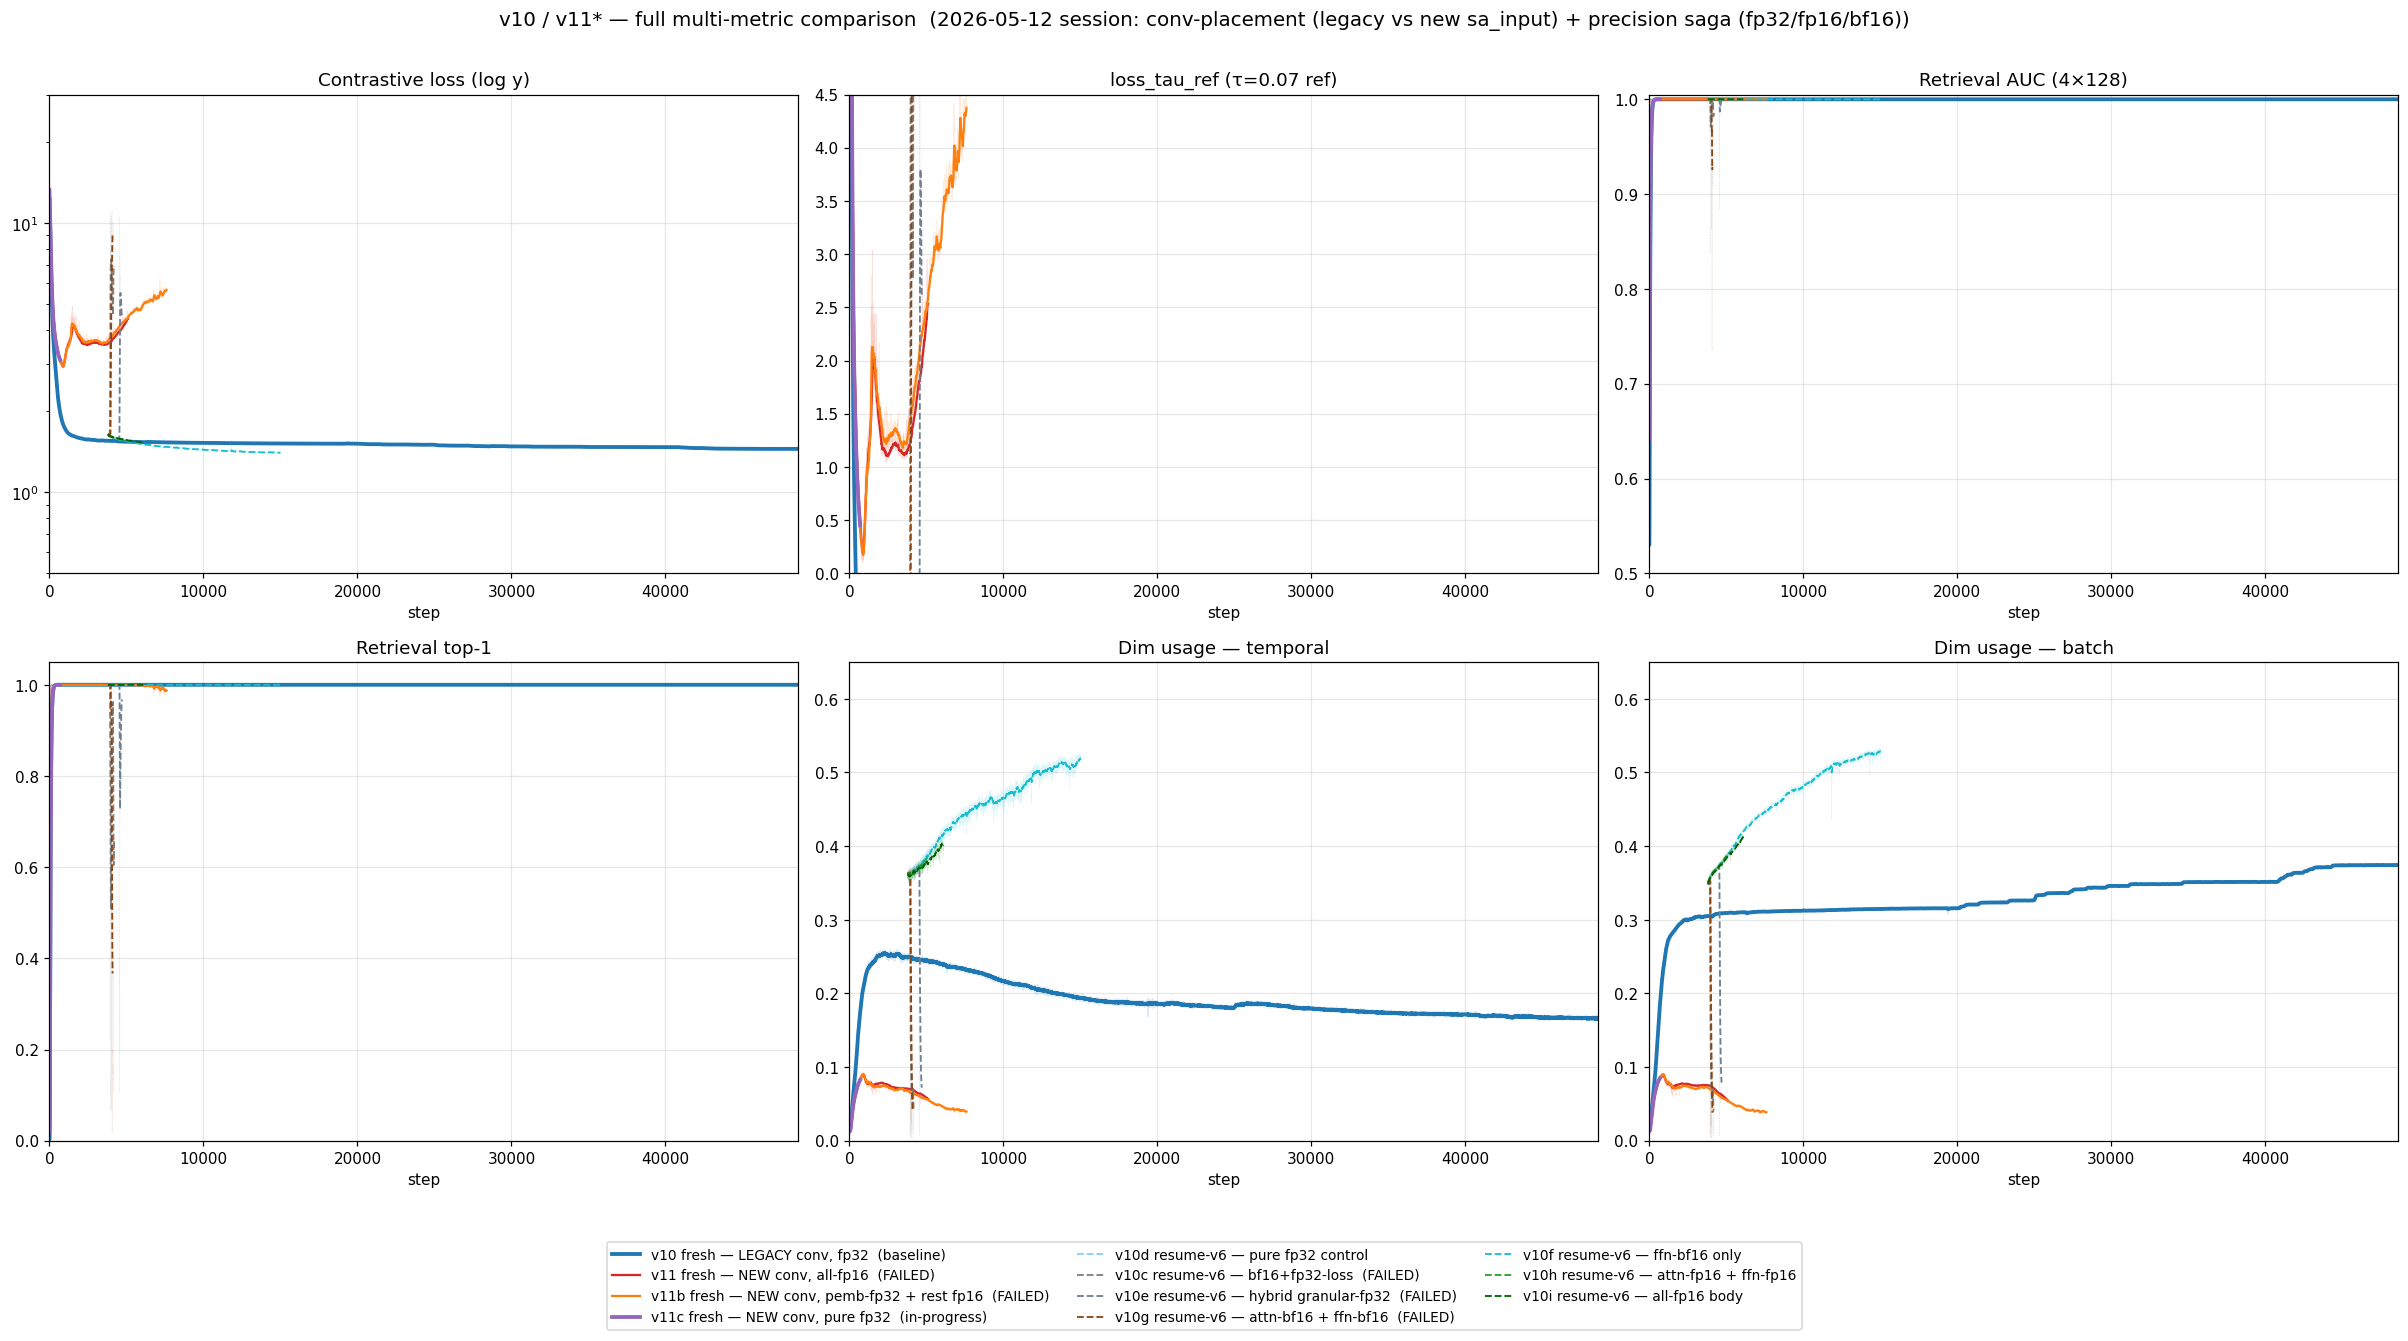
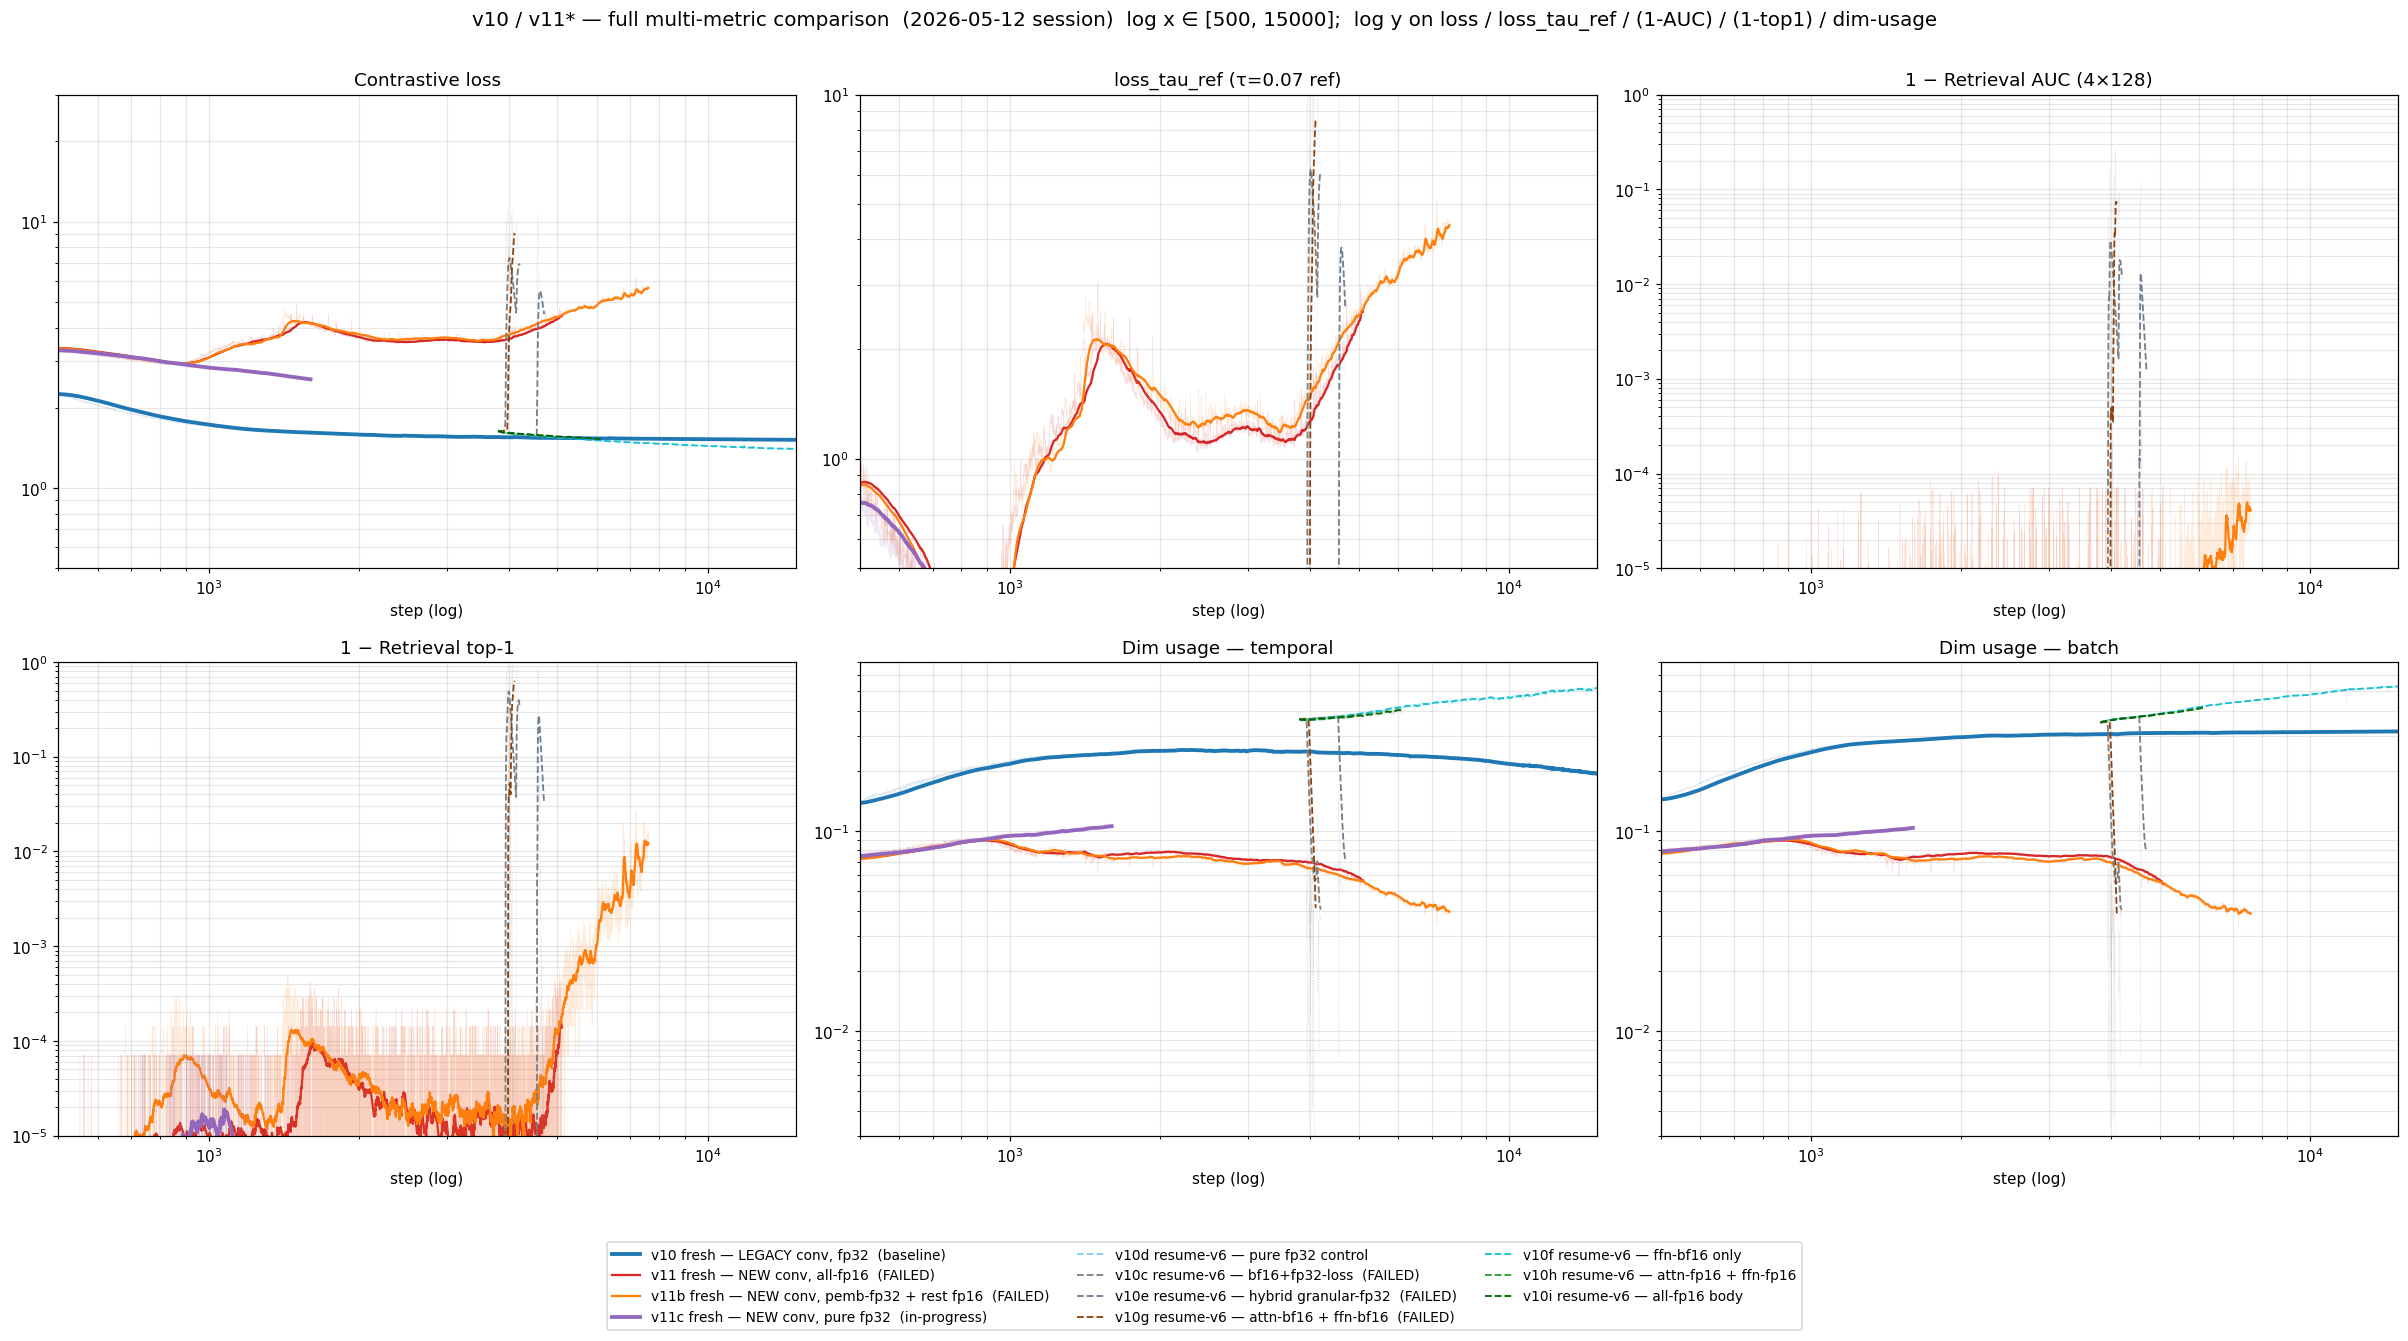
plot(enc-fcst-v10/v11): switch to log/log, cap x∈[500, 15000], (1−AUC) / (1−top1) on log y
Log x and log y axes everywhere meaningful. Cap x at [500, 15000] so v10's
48k tail doesn't compress the early divergence window. AUC and top-1 are
saturated near 1.0, so plot 1−AUC and 1−top1 on log y to make the
discriminating range visible.

diff --git a/experiments/2026-05-11_exp_encoder_forecaster/scripts/plot_v10_v11_all_runs.py b/experiments/2026-05-11_exp_encoder_forecaster/scripts/plot_v10_v11_all_runs.py
@@ -72,14 +72,19 @@ RUNS = [
 ]
 
 METRICS = [
-    # (csv_col, title, log_y, ylim)
-    ("loss",          "Contrastive loss (log y)",         True,  (0.5, 30.0)),
-    ("loss_tau_ref",  "loss_tau_ref (τ=0.07 ref)",        False, (0.0, 4.5)),
-    ("auc",           "Retrieval AUC (4×128)",            False, (0.5, 1.005)),
-    ("top1",          "Retrieval top-1",                  False, (0.0, 1.05)),
-    ("u_temporal",    "Dim usage — temporal",             False, (0.0, 0.65)),
-    ("u_batch",       "Dim usage — batch",                False, (0.0, 0.65)),
+    # (csv_col, title, transform, ylim)
+    #   transform ∈ {"log", "1minus_log", "linear"}
+    ("loss",          "Contrastive loss",                  "log",        (0.5, 30.0)),
+    ("loss_tau_ref",  "loss_tau_ref (τ=0.07 ref)",         "log",        (0.5, 10.0)),
+    ("auc",           "1 − Retrieval AUC (4×128)",         "1minus_log", (1e-5, 1.0)),
+    ("top1",          "1 − Retrieval top-1",               "1minus_log", (1e-5, 1.0)),
+    ("u_temporal",    "Dim usage — temporal",              "log",        (3e-3, 0.7)),
+    ("u_batch",       "Dim usage — batch",                 "log",        (3e-3, 0.7)),
 ]
+
+# Cut x-axis to keep the relevant range visible. v10's 48k tail compresses
+# everything else; the action happens in the first ~15k steps.
+XMIN, XMAX = 500, 15000
 
 
 def ema(y, alpha=0.02):
@@ -114,7 +119,6 @@ def load(path):
 fig, axes = plt.subplots(2, 3, figsize=(22, 12))
 axes = axes.flatten()
 
-xmax_global = 0
 for fname, label, color, ls, lw in RUNS:
     path = CKPT / fname
     if not path.exists():
@@ -123,21 +127,30 @@ for fname, label, color, ls, lw in RUNS:
     s, cols = load(path)
     if len(s) == 0:
         continue
-    xmax_global = max(xmax_global, int(s.max()))
-    for ax, (m, _title, _log, _ylim) in zip(axes, METRICS):
-        y = cols[m]
+    # Mask out steps below XMIN (log x breaks near 0).
+    keep = s >= XMIN
+    s_keep = s[keep]
+    if len(s_keep) == 0:
+        continue
+    for ax, (m, _title, transform, _ylim) in zip(axes, METRICS):
+        y = cols[m][keep]
         if np.all(np.isnan(y)):
             continue
-        ax.plot(s, y,      color=color, ls=ls, lw=lw * 0.3, alpha=0.15)
-        ax.plot(s, ema(y), color=color, ls=ls, lw=lw,        label=label)
+        if transform == "1minus_log":
+            y_plot = np.clip(1.0 - y, 1e-6, None)   # avoid log(0)
+        else:
+            y_plot = y
+        ax.plot(s_keep, y_plot,      color=color, ls=ls, lw=lw * 0.3, alpha=0.15)
+        ax.plot(s_keep, ema(y_plot), color=color, ls=ls, lw=lw,        label=label)
 
-for ax, (m, title, log, ylim) in zip(axes, METRICS):
+for ax, (m, title, transform, ylim) in zip(axes, METRICS):
     ax.set_title(title, fontsize=12)
-    ax.set_xlabel("step")
-    ax.grid(True, alpha=0.3)
-    if log:
+    ax.set_xlabel("step (log)")
+    ax.grid(True, which="both", alpha=0.3)
+    ax.set_xscale("log")
+    ax.set_xlim(XMIN, XMAX)
+    if transform in ("log", "1minus_log"):
         ax.set_yscale("log")
-    ax.set_xlim(0, xmax_global)
     ax.set_ylim(*ylim)
 
 # Single legend below the grid, 3 columns
@@ -147,8 +160,8 @@ fig.legend(handles, labels,
            ncol=3, fontsize=9, frameon=True)
 
 plt.suptitle(
-    "v10 / v11* — full multi-metric comparison  (2026-05-12 session: "
-    "conv-placement (legacy vs new sa_input) + precision saga (fp32/fp16/bf16))",
+    "v10 / v11* — full multi-metric comparison  (2026-05-12 session)  "
+    f"log x ∈ [{XMIN}, {XMAX}];  log y on loss / loss_tau_ref / (1-AUC) / (1-top1) / dim-usage",
     fontsize=13, y=0.995,
 )
 plt.tight_layout(rect=(0, 0.09, 1, 0.99))
